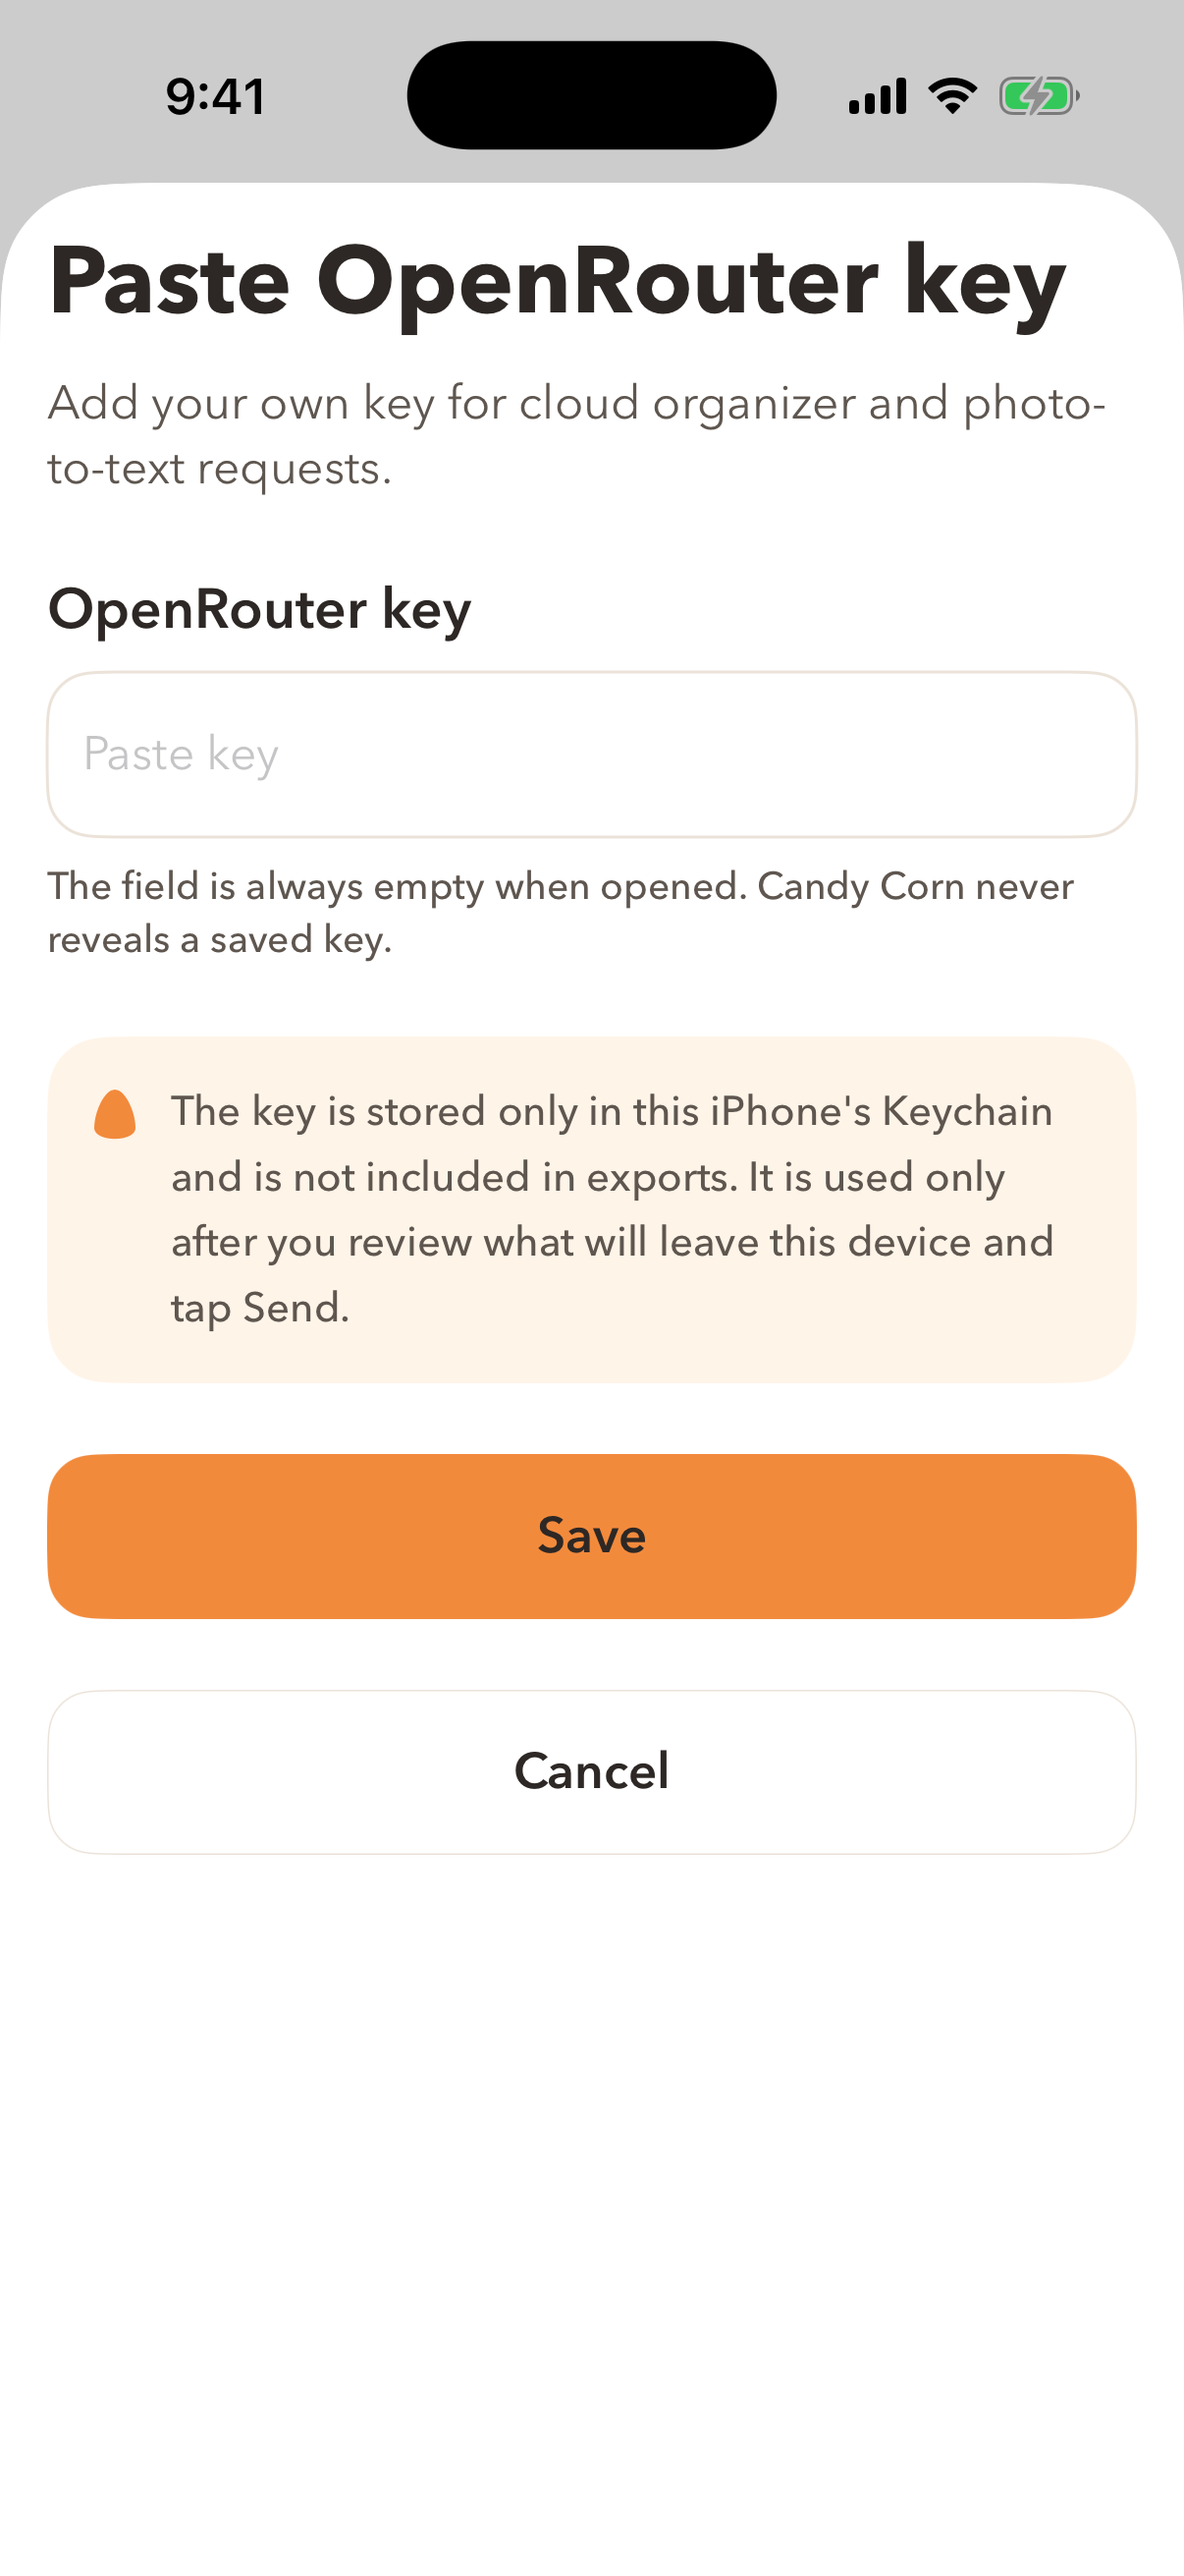
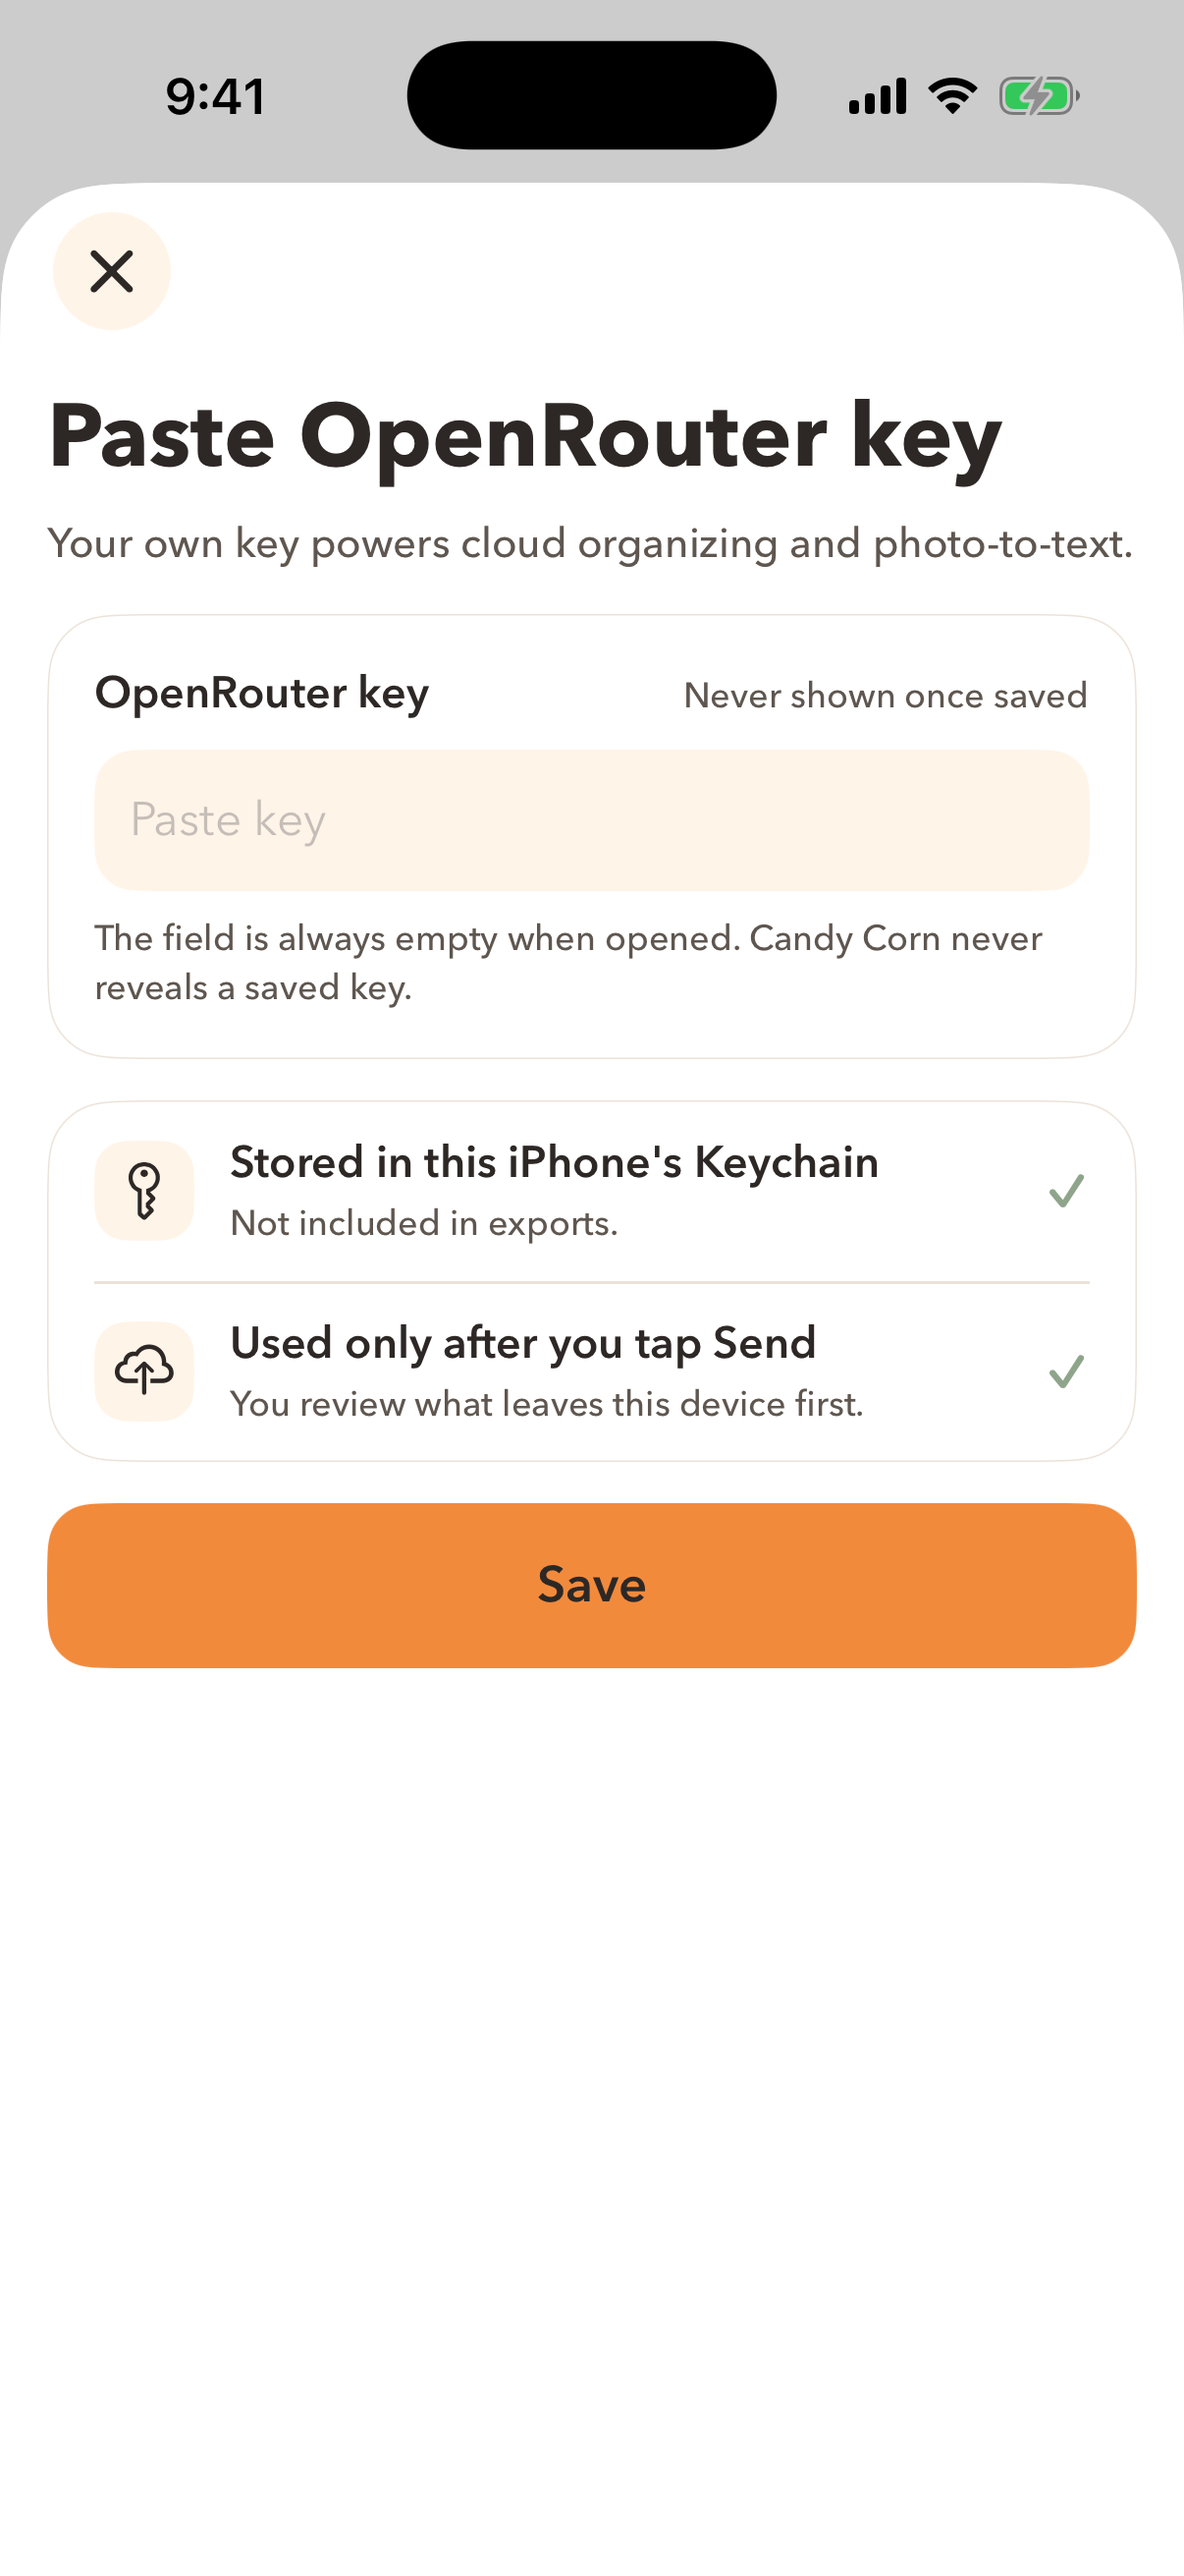
Front end v2: what-leaves-this-device and OpenRouter key sheets
Same labels and flow; source rows as a card, destination and total side by side, round close.
292 tests, 46 suites.

diff --git a/apps/candycorn-ios/CandyCorn/Features/AI/WhatLeavesDeviceSheet.swift b/apps/candycorn-ios/CandyCorn/Features/AI/WhatLeavesDeviceSheet.swift
@@ -70,9 +70,7 @@ struct WhatLeavesDeviceSheet: View {
     var body: some View {
         VStack(spacing: 0) {
             header
-            Divider().overlay(DesignTokens.hairline)
             sourceLedger
-            Divider().overlay(DesignTokens.hairline)
             footer
         }
         .background(DesignTokens.canvas.ignoresSafeArea())
@@ -80,111 +78,99 @@ struct WhatLeavesDeviceSheet: View {
     }
 
     private var header: some View {
-        VStack(alignment: .leading, spacing: DesignTokens.Spacing.compact) {
-            HStack(alignment: .top, spacing: DesignTokens.Spacing.compact) {
-                KernelGlyph(voice: .candyCorn, height: 20)
-                    .padding(.top, DesignTokens.Spacing.xSmall)
-                VStack(alignment: .leading, spacing: DesignTokens.Spacing.small) {
+        VStack(alignment: .leading, spacing: DesignTokens.Spacing.small) {
+            HStack(alignment: .top) {
+                VStack(alignment: .leading, spacing: 6) {
                     Text("What leaves this device")
-                        .font(TypeScale.pageTitle)
+                        .font(TypeScale.screenTitle)
                         .foregroundStyle(DesignTokens.cocoa)
+                        .fixedSize(horizontal: false, vertical: true)
                     Text(pendingSend.disclosure.purpose)
-                        .font(TypeScale.body)
+                        .font(TypeScale.label)
                         .foregroundStyle(DesignTokens.cocoaSoft)
                         .fixedSize(horizontal: false, vertical: true)
                 }
+                Spacer(minLength: DesignTokens.Spacing.small)
+                RoundActionButton(icon: .close, label: AISendDisclosureText.cancelActionName, action: onCancel)
+                    .disabled(isProcessing)
             }
-            ProvenanceLine(
-                provenance: Provenance(
-                    voice: .candyCorn,
-                    label: "Candy Corn suggestion",
-                    detail: "Review every source before sending.",
-                    occurredAt: nil,
-                    sourceRoute: nil
-                ),
-                compact: true
-            )
+            ProvenanceInline(voice: .candyCorn, text: "Candy Corn suggestion · review every source before sending")
         }
         .padding(.horizontal, DesignTokens.screenInset)
-        .padding(.vertical, DesignTokens.Spacing.large)
+        .padding(.top, DesignTokens.Spacing.medium)
+        .padding(.bottom, DesignTokens.blockGap)
     }
 
     private var sourceLedger: some View {
         ScrollView {
-            LazyVStack(alignment: .leading, spacing: 0) {
+            VStack(alignment: .leading, spacing: DesignTokens.blockGap) {
                 if hasSources {
-                    ForEach(pendingSend.disclosure.sources) { source in
-                        sourceRow(source)
-                        Divider().overlay(DesignTokens.hairline)
+                    V2Card(padding: 0) {
+                        LazyVStack(alignment: .leading, spacing: 0) {
+                            ForEach(Array(pendingSend.disclosure.sources.enumerated()), id: \.element.id) { index, source in
+                                V2ListRow(
+                                    icon: source.imageCount > 0 ? .camera : .journal,
+                                    title: source.title,
+                                    detail: AISendDisclosureText.sourceCounts(source),
+                                    trailing: .none,
+                                    divider: index > 0
+                                )
+                                .accessibilityLabel(AISendDisclosureText.sourceAccessibilityLabel(source))
+                            }
+                        }
                     }
                 } else {
                     emptySources
                 }
             }
             .padding(.horizontal, DesignTokens.screenInset)
+            .padding(.bottom, DesignTokens.blockGap)
         }
         .frame(maxHeight: .infinity)
         .accessibilityElement(children: .contain)
         .accessibilityLabel("Sources leaving this device")
     }
 
-    private func sourceRow(_ source: OutgoingSourceDescriptor) -> some View {
-        VStack(alignment: .leading, spacing: DesignTokens.Spacing.small) {
-            Text(source.title)
-                .font(TypeScale.bodyMedium)
-                .foregroundStyle(DesignTokens.cocoa)
-                .fixedSize(horizontal: false, vertical: true)
-            Text(AISendDisclosureText.sourceCounts(source))
-                .font(TypeScale.provenance.monospacedDigit())
-                .foregroundStyle(DesignTokens.cocoaSoft)
-        }
-        .frame(maxWidth: .infinity, minHeight: DesignTokens.Spacing.hero, alignment: .leading)
-        .padding(.vertical, DesignTokens.Spacing.compact)
-        .accessibilityElement(children: .ignore)
-        .accessibilityLabel(AISendDisclosureText.sourceAccessibilityLabel(source))
-    }
-
     private var emptySources: some View {
-        VStack(alignment: .leading, spacing: DesignTokens.Spacing.small) {
-            Text("Nothing is ready to send")
-                .font(TypeScale.bodyMedium)
-                .foregroundStyle(DesignTokens.cocoa)
-            Text("Add source material, then review this list again.")
-                .font(TypeScale.label)
-                .foregroundStyle(DesignTokens.cocoaSoft)
+        V2Card {
+            VStack(alignment: .leading, spacing: DesignTokens.Spacing.small) {
+                Text("Nothing is ready to send")
+                    .font(TypeScale.cardTitle)
+                    .foregroundStyle(DesignTokens.cocoa)
+                Text("Add source material, then review this list again.")
+                    .font(TypeScale.meta)
+                    .foregroundStyle(DesignTokens.cocoaSoft)
+            }
         }
-        .frame(maxWidth: .infinity, minHeight: 120, alignment: .leading)
         .accessibilityElement(children: .combine)
     }
 
     private var footer: some View {
-        VStack(alignment: .leading, spacing: DesignTokens.Spacing.base) {
+        VStack(alignment: .leading, spacing: DesignTokens.Spacing.compact) {
             disclosureTotals
             processingMessage
             actionButtons
         }
-        .padding(DesignTokens.screenInset)
+        .padding(.horizontal, DesignTokens.screenInset)
+        .padding(.top, DesignTokens.Spacing.base)
+        .padding(.bottom, DesignTokens.Spacing.small)
         .background(DesignTokens.surfaceWarm)
+        .clipShape(UnevenRoundedRectangle(topLeadingRadius: DesignTokens.heroRadius, topTrailingRadius: DesignTokens.heroRadius, style: .continuous))
     }
 
     private var disclosureTotals: some View {
         VStack(alignment: .leading, spacing: DesignTokens.Spacing.small) {
-            ledgerLine(title: "Destination", value: pendingSend.disclosure.destination, monospaced: false)
-            ledgerLine(
-                title: "Total",
-                value: totalCounts,
-                monospaced: true
-            )
+            HStack(alignment: .top, spacing: DesignTokens.blockGap) {
+                ledgerLine(title: "Destination", value: pendingSend.disclosure.destination, monospaced: false)
+                ledgerLine(title: "Total", value: totalCounts, monospaced: true)
+            }
             if let omitted = AISendDisclosureText.omittedSources(pendingSend.disclosure.omittedSourceCount) {
                 Text(omitted)
-                    .font(TypeScale.label)
+                    .font(TypeScale.meta)
                     .foregroundStyle(DesignTokens.cocoaSoft)
                     .fixedSize(horizontal: false, vertical: true)
             }
-            Text("Cloud upload starts only when you tap Send.")
-                .font(TypeScale.label)
-                .foregroundStyle(DesignTokens.cocoa)
-                .fixedSize(horizontal: false, vertical: true)
+            ProvenanceInline(voice: .user, text: "Cloud upload starts only when you tap Send.")
         }
     }
 
@@ -198,15 +184,16 @@ struct WhatLeavesDeviceSheet: View {
     }
 
     private func ledgerLine(title: String, value: String, monospaced: Bool) -> some View {
-        VStack(alignment: .leading, spacing: DesignTokens.Spacing.xSmall) {
+        VStack(alignment: .leading, spacing: 2) {
             Text(title)
-                .font(TypeScale.provenance)
+                .font(TypeScale.metaStrong)
                 .foregroundStyle(DesignTokens.cocoaSoft)
             Text(value)
-                .font(monospaced ? TypeScale.bodyMedium.monospacedDigit() : TypeScale.bodyMedium)
+                .font(monospaced ? TypeScale.rowTitleCompact.monospacedDigit() : TypeScale.rowTitleCompact)
                 .foregroundStyle(DesignTokens.cocoa)
                 .fixedSize(horizontal: false, vertical: true)
         }
+        .frame(maxWidth: .infinity, alignment: .leading)
         .accessibilityElement(children: .combine)
     }
 

diff --git a/apps/candycorn-ios/CandyCorn/Features/Settings/OpenRouterKeySheet.swift b/apps/candycorn-ios/CandyCorn/Features/Settings/OpenRouterKeySheet.swift
@@ -9,9 +9,12 @@ struct OpenRouterKeySheet: View {
     @State private var errorMessage: String?
 
     var body: some View {
-        ScreenLayout(
+        V2Screen(
             title: "Paste OpenRouter key",
-            subtitle: "Add your own key for cloud organizer and photo-to-text requests.",
+            subtitle: "Your own key powers cloud organizing and photo-to-text.",
+            backAction: { dismiss() },
+            backLabel: "Cancel",
+            backIcon: .close,
             bottomInset: DesignTokens.Spacing.large
         ) {
             keyField
@@ -22,58 +25,39 @@ struct OpenRouterKeySheet: View {
             Button(isSaving ? "Saving" : "Save", action: save)
                 .buttonStyle(PrimaryButtonStyle())
                 .disabled(isSaving)
-            Button("Cancel") { dismiss() }
-                .buttonStyle(SecondaryButtonStyle())
-                .disabled(isSaving)
         }
         .interactiveDismissDisabled(isSaving)
     }
 
     private var keyField: some View {
-        VStack(alignment: .leading, spacing: DesignTokens.Spacing.small) {
-            Text("OpenRouter key")
-                .font(TypeScale.sectionCompact)
-                .foregroundStyle(DesignTokens.cocoa)
-            SecureField("Paste key", text: boundedKeyBinding)
-                .font(TypeScale.body)
-                .textInputAutocapitalization(.never)
-                .autocorrectionDisabled()
-                .keyboardType(.asciiCapable)
-                .textContentType(.password)
-                .padding(DesignTokens.Spacing.compact)
-                .frame(minHeight: DesignTokens.primaryButtonHeight)
-                .background(DesignTokens.surface)
-                .overlay(
-                    RoundedRectangle(cornerRadius: DesignTokens.controlRadius, style: .continuous)
-                        .stroke(DesignTokens.hairline, lineWidth: 1)
-                )
-                .accessibilityLabel("OpenRouter key")
-                .accessibilityHint("Secure text field. A saved key is never shown here.")
-            Text("The field is always empty when opened. Candy Corn never reveals a saved key.")
-                .font(TypeScale.provenance)
-                .foregroundStyle(DesignTokens.cocoaSoft)
-                .fixedSize(horizontal: false, vertical: true)
+        V2Card {
+            VStack(alignment: .leading, spacing: DesignTokens.Spacing.small) {
+                SectionLine(title: "OpenRouter key", trailing: "Never shown once saved")
+                SecureField("Paste key", text: boundedKeyBinding)
+                    .font(TypeScale.body)
+                    .textInputAutocapitalization(.never)
+                    .autocorrectionDisabled()
+                    .keyboardType(.asciiCapable)
+                    .textContentType(.password)
+                    .padding(.horizontal, DesignTokens.Spacing.compact)
+                    .frame(minHeight: DesignTokens.controlMinimum + 4)
+                    .background(DesignTokens.surfaceWarm)
+                    .clipShape(RoundedRectangle(cornerRadius: 14, style: .continuous))
+                    .accessibilityLabel("OpenRouter key")
+                    .accessibilityHint("Secure text field. A saved key is never shown here.")
+                Text("The field is always empty when opened. Candy Corn never reveals a saved key.")
+                    .font(TypeScale.meta)
+                    .foregroundStyle(DesignTokens.cocoaSoft)
+                    .fixedSize(horizontal: false, vertical: true)
+            }
         }
     }
 
     private var privacyExplanation: some View {
-        HStack(alignment: .top, spacing: DesignTokens.Spacing.compact) {
-            KernelGlyph(voice: .user, height: 18, decorative: true)
-                .padding(.top, 2)
-            Text(
-                "The key is stored only in this iPhone's Keychain and is not included in exports. "
-                    + "It is used only after you review what will leave this device and tap Send."
-            )
-                .font(TypeScale.label)
-                .foregroundStyle(DesignTokens.cocoaSoft)
-                .lineSpacing(3)
-                .fixedSize(horizontal: false, vertical: true)
+        V2GroupCard {
+            V2ListRow(icon: .key, title: "Stored in this iPhone's Keychain", detail: "Not included in exports.", trailing: .check, divider: false)
+            V2ListRow(icon: .cloudUpload, title: "Used only after you tap Send", detail: "You review what leaves this device first.", trailing: .check)
         }
-        .padding(DesignTokens.Spacing.base)
-        .frame(maxWidth: .infinity, alignment: .leading)
-        .background(DesignTokens.surfaceWarm)
-        .clipShape(RoundedRectangle(cornerRadius: DesignTokens.cardRadius, style: .continuous))
-        .accessibilityElement(children: .combine)
     }
 
     private var boundedKeyBinding: Binding<String> {
